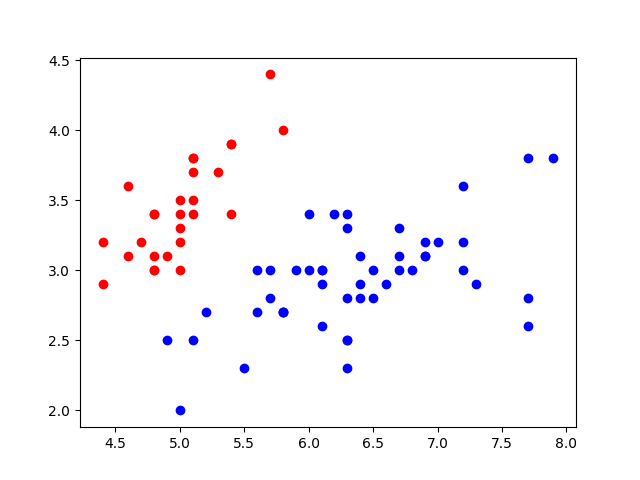
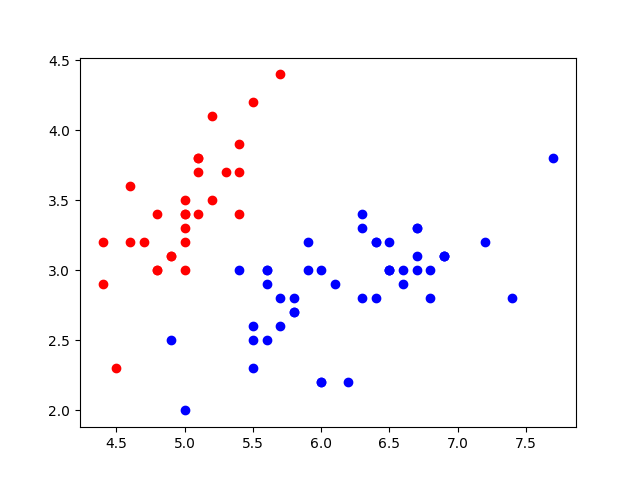
Updated: numpy data working as x/y train.

diff --git a/perceptron.py b/perceptron.py
@@ -28,10 +28,10 @@ def line():
     px = 1.1# coordinate a of a point.
     py = 3.9# coordinate b of a point.
     plt.plot(px,py,'bo')
-    # the point in the line   
+    # the point in the line
     P1_ = 4# coordinate a of a point.
     P2_ = 4.5 # coordinate a of a point.
-    
+
     m = P2_/P1_ # slope
     #y = m*x line ecuation
     y = []
@@ -50,7 +50,7 @@ class Perceptron:
         -
     @Usage:
     @theroy:
-        learning rate: 
+        learning rate:
     """
     def __init__(self,learning_rate,epochs):
         self.weights = 0
@@ -60,18 +60,21 @@ class Perceptron:
 
     def activation(self,z):
         return np.heaviside(z,0)
-    
+
     def fit(self,x,y):
+        plt.clf()
         n_features = x.shape[1]
         self.weights = np.zeros((n_features))
-        
         for epoch in range(self.epochs):
             for i in range(len(x)):
                 z = np.dot(x,self.weights) + self.bias
                 y_pred = self.activation(z)
                 self.weights = self.weights + self.learning_rate * (y[i] - y_pred[i])*x[i]
                 self.bias = self.bias + self.learning_rate * (y[i] - y_pred[i])
-
+            weight_error = self.weights[0]
+            weight_to_plot = (weight_error*(-1))
+            plt.plot(epoch,weight_to_plot,'bo')
+        plt.savefig('{}/learning_progress'.format(FOLDER))
         return self.weights, self.bias
 
     def predict(self,x):

diff --git a/test_perceptron.py b/test_perceptron.py
@@ -2,11 +2,24 @@ from perceptron import Perceptron,FOLDER
 #from sklearndata import x_train,y_train,x_test,y_test
 from irisdata import x_train,y_train,x_test,y_test
 import matplotlib.pyplot as plt
+import sys
 import numpy as np
 import os
 
 if not os.path.isdir(FOLDER):
     os.mkdir(FOLDER)
+
+def _accuracy(y_true,y_pred,normalize=True):
+    accuracy=[]
+    for i in range(len(y_pred)):
+        if y_pred[i]==y_true[i]:
+            accuracy.append(1)
+        else:
+            accuracy.append(0)
+    if normalize==True:
+        return np.mean(accuracy)
+    if normalize==False:
+        return sum(accuracy)
 
 def plot_data(fig_name,x_train=None,y_train=None,x_test=None):
     if isinstance(x_test,np.ndarray):
@@ -28,7 +41,15 @@ if __name__ == '__main__':
     print('>> [*] start data preparation')
     plot_data('train_data',x_train=x_train,y_train=y_train)
     plot_data('test_data',x_test=x_test)
-    perceptron = Perceptron(0.001,100)
+    try:
+        learning_rate = float(sys.argv[2])
+    except:
+        learning_rate = 0.001
+    try:
+        epochs = int(sys.argv[1])
+    except:
+        epochs = 100
+    perceptron = Perceptron(learning_rate=0.001,epochs=epochs)
     perceptron.fit(x_train,y_train)
     y_pred = perceptron.predict(x_test)
     plot_data('prediction',x_test,y_pred)

diff --git a/sklearndata.py b/sklearndata.py
@@ -5,5 +5,5 @@ import numpy as np
 iris = load_iris()
 x = iris.data[:,(0,1)]
 y = (iris.target == 0).astype(np.int_)
-x_train,x_test,y_train,y_test = train_test_split(x,y,test_size=0.5,random_state=0)
+x_train,x_test,y_train,y_test = train_test_split(x,y,test_size=0.5,random_state=43)
 
